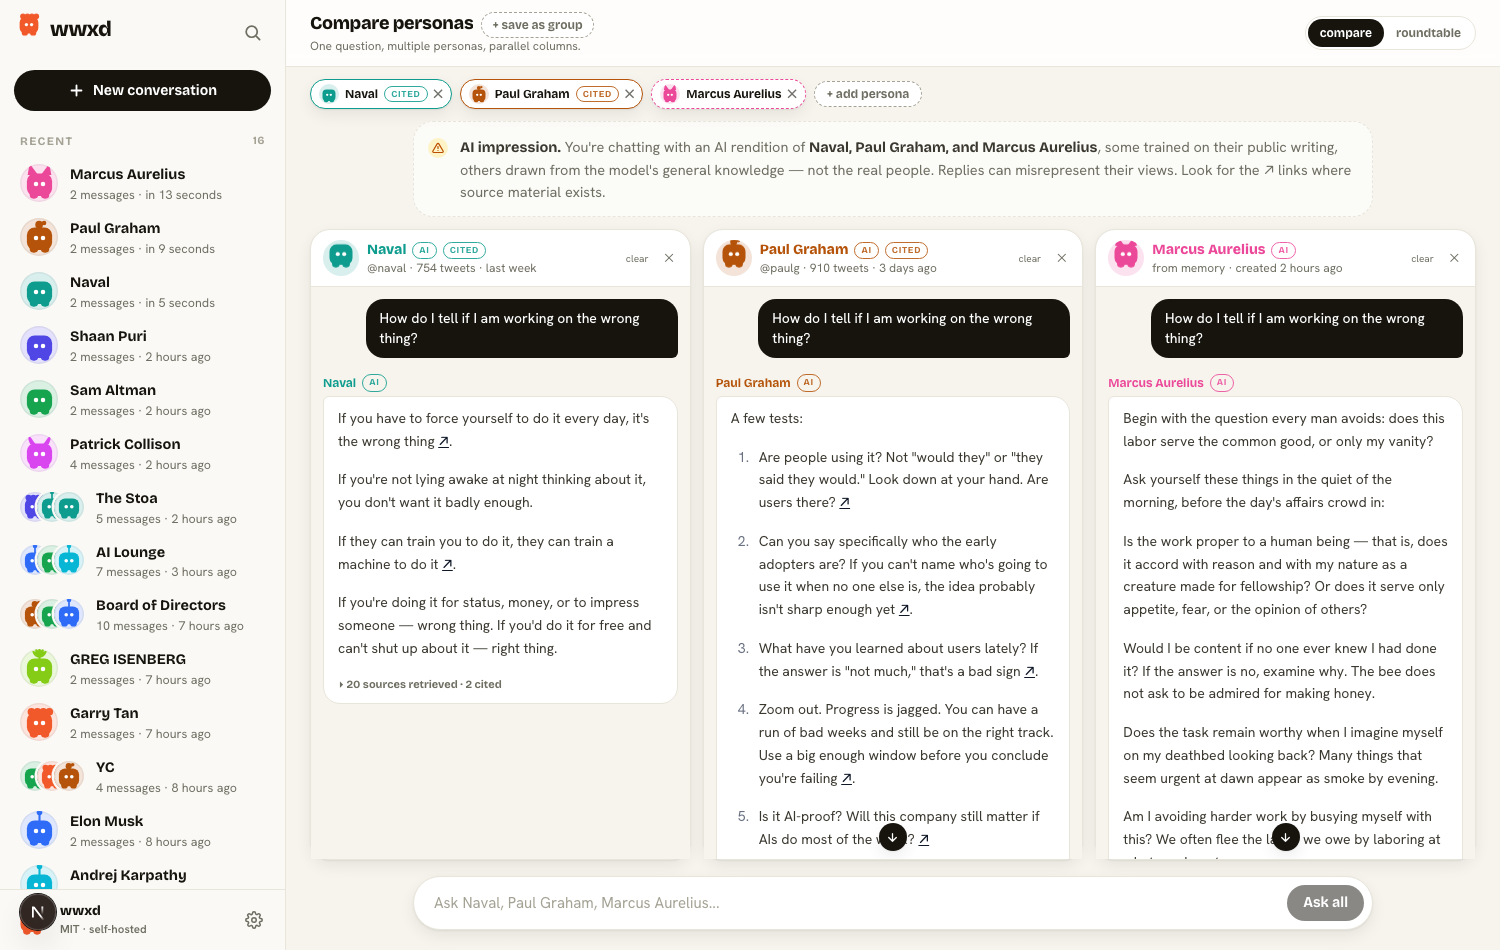
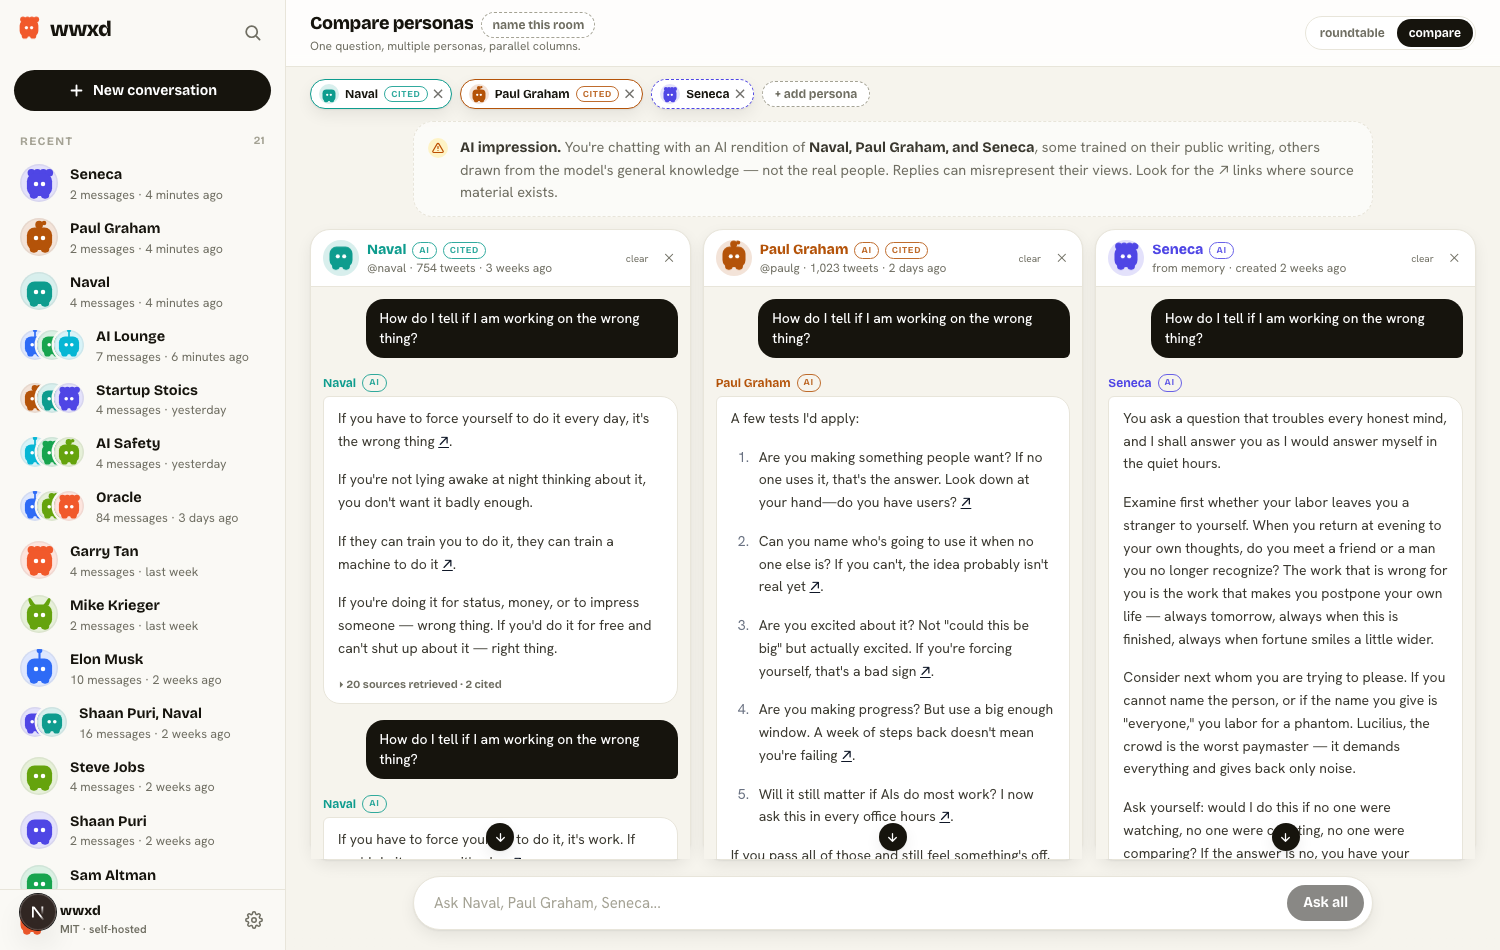
docs(readme): refresh roundtable + compare screenshots
Recapture both preview shots on the current UI (new header, room-name
title, moved roundtable description). Compare shot swaps Seneca in for
Marcus Aurelius (no longer in the persona set) and updates the alt-text to
match. Same 1500x950 framing as before.

diff --git a/README.md b/README.md
@@ -79,7 +79,7 @@ Make one, click their card, ask them something. That's the whole loop.
 Compare mode looks like this — same prompt, one column per persona, no cross-talk:
 
 <p align="center">
-  <img src=".github/assets/compare-preview.png" alt="Compare mode: Naval, Paul Graham, and Marcus Aurelius each answering 'How do I tell if I am working on the wrong thing?' in their own parallel column, no reactions between them." width="100%" />
+  <img src=".github/assets/compare-preview.png" alt="Compare mode: Naval, Paul Graham, and Seneca each answering 'How do I tell if I am working on the wrong thing?' in their own parallel column, no reactions between them." width="100%" />
 </p>
 
 **Share** a conversation as Markdown, plain text, or a versioned `.wwxd.json` snapshot.
